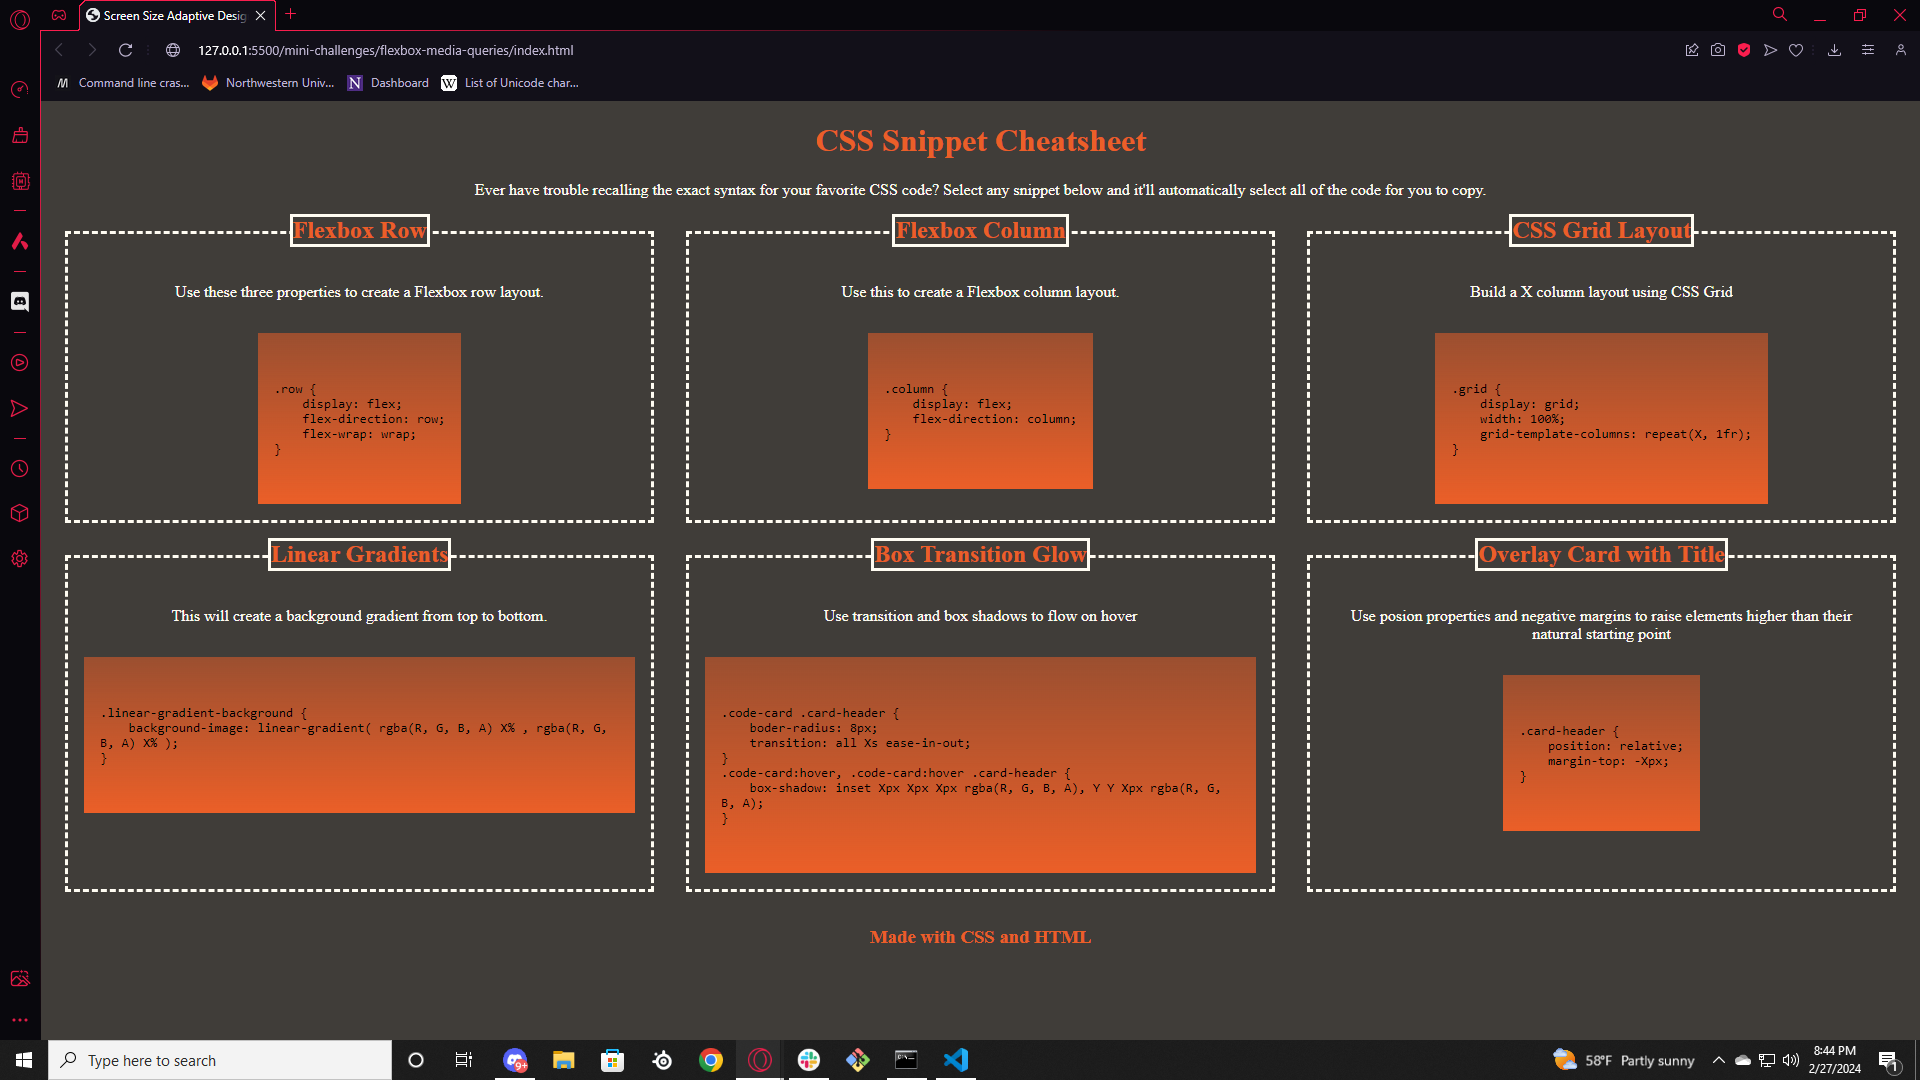
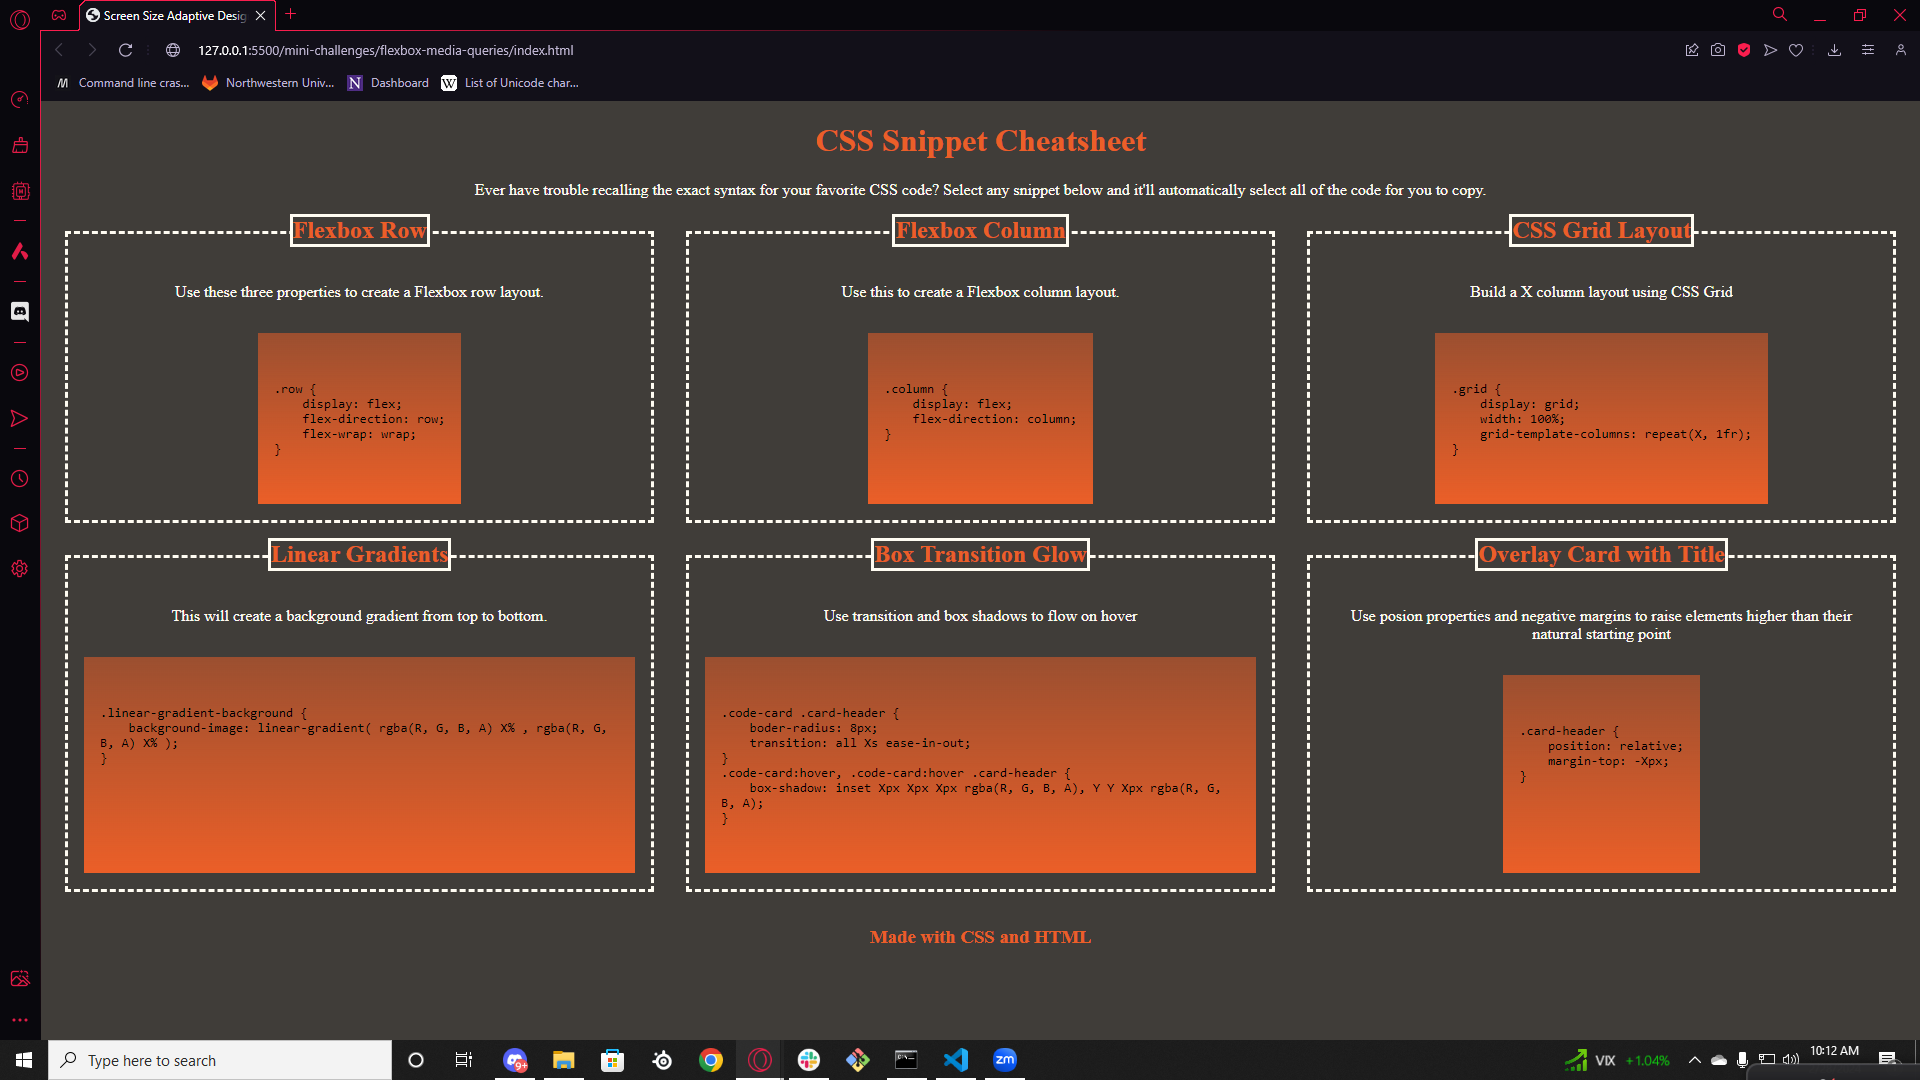
Got the <pre> boxes to look better

diff --git a/assets/css/style.css b/assets/css/style.css
@@ -23,22 +23,22 @@ section{
     flex: 1 0 25%;
     margin: 1rem 1rem;
     border: dashed var(--white);
-    display:flex;
-    flex-flow: column wrap;
-    align-items: center;
 }
 /* header */
 h1 {
     color: var(--orange);
-    text-align:center;
+    text-align: center;
     font-family: "Palatino", "URW Palladio L", serif;
 }
 /* flex box titles */
 h2 {
     color: var(--orange);
     border: solid var(--white);
-    display: inline-flex;
-    margin-top: -20px;
+    text-align: center;
+    padding: 5px;
+    margin-top: -20px;  
+    margin-right: 25%;
+    margin-left: 25%;
 }
 /* footer */
 h3 {
@@ -48,12 +48,11 @@ h3 {
 /* code snippets */
 pre {
     background-image: linear-gradient(var(--orange-gradient), var(--orange));
-    padding: 3rem 1rem;
+    padding: 1rem 1rem;
     margin: 1rem;
     text-wrap: wrap;
     user-select: all;
-    display: block;
-    flex-grow: 1;
+    height: 13rem;
 }
 /* descriptions */
 p {
